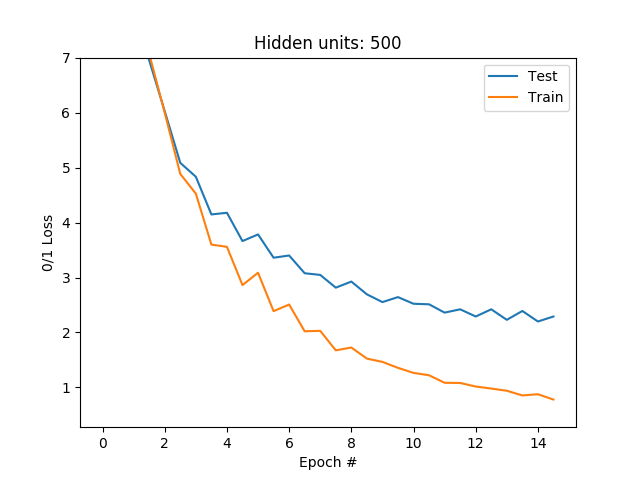
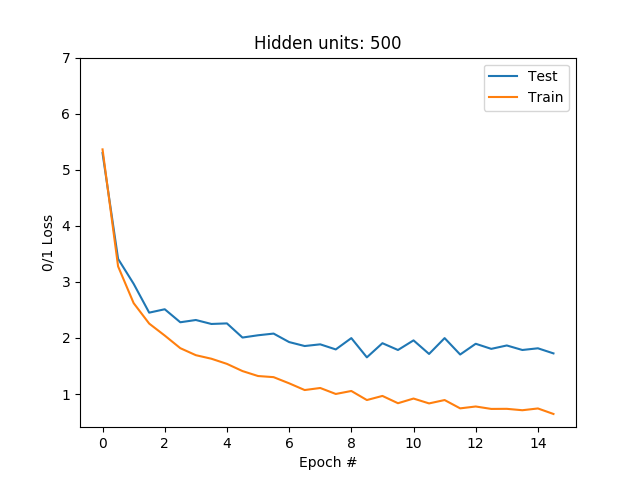
Add ReLU implementation; rename main file in sigmoid

diff --git a/src/relu_backprop.py b/src/relu_backprop.py
@@ -1,0 +1,257 @@
+import numpy as np
+import scipy.special as special
+import matplotlib.pyplot as plt
+from sklearn.preprocessing import scale
+
+from parameters import HyperParameters
+
+
+def feed_forward(training_example,
+                 input_layer_weights,
+                 hidden_layer_weights):
+    """
+    Feed forward part of the the BackPropagation algorithmn
+    :rtype: object
+    :param training_example: 51 x 1 ndarray
+    :param input_layer_weights: 51 x num_hidden_units ndarray
+    :param hidden_layer_weights: num_hidden_units x 10 ndarray
+    """
+    # calculate hidden layer values
+    hidden_layer_values = np.maximum(np.dot(training_example, input_layer_weights), 0.0)
+    # calculate output layer values
+    output_layer_values = np.maximum(np.dot(hidden_layer_values, hidden_layer_weights), 0.0)
+    if np.any(np.isnan(hidden_layer_values)) or np.any(np.isnan(output_layer_values)):
+        print('SSTOP!')
+    return hidden_layer_values, output_layer_values
+
+
+def back_propagate_errors(training_example_label,
+                          hidden_layer_weights,
+                          hidden_unit_values,
+                          output_unit_values):
+    """
+
+    :param training_example_label: 10 x 1 ndarray for actual output layer or label for current training example
+    :param hidden_layer_weights: num_hidden_units x 10 ndarray representing weights between output units and hidden units
+    :param hidden_unit_values: num_hidden_unit x 1 ndarray representing the hidden unit values obtained after feed forward
+    :param output_unit_values: 10 x 1 ndarray representing the output unit values obtained after feed forward
+    """
+    assert training_example_label.shape[0] == output_unit_values.shape[0]
+
+    output_unit_error_terms = np.zeros(output_unit_values.shape)
+    output_unit_error_terms[output_unit_values > 0.0] = 1.0
+    output_unit_error_terms = (training_example_label - output_unit_values) * output_unit_error_terms
+    # output_unit_error_terms = output_unit_values * (np.full(output_unit_values.shape, 1.0) - output_unit_values) * (
+    #     training_example_label - output_unit_values)
+
+    hidden_unit_error_terms = np.zeros(hidden_unit_values.shape)
+    hidden_unit_error_terms[hidden_unit_values > 0.0] = 1.0
+    hidden_unit_error_terms = hidden_unit_error_terms * np.dot(hidden_layer_weights, output_unit_error_terms)
+    # hidden_unit_error_terms = np.dot(hidden_layer_weights, output_unit_error_terms) * hidden_unit_values * (
+    #     np.full(hidden_unit_values.shape, 1.0) - hidden_unit_values)
+
+    return hidden_unit_error_terms, output_unit_error_terms
+
+
+def get_weight_delta(hidden_unit_error_terms,
+                     output_unit_error_terms,
+                     parameter_factory,
+                     training_example,
+                     hidden_layer_values,
+                     previous_input_weights_delta,
+                     previous_hidden_unit_weights_delta):
+    """
+
+    :param previous_hidden_unit_weights_delta:
+    :param previous_input_weights_delta:
+    :param hidden_layer_values:  num_hidden_units x 1 ndarray representing the values calculated at the hidden layer
+    :param training_example: 51 x 1 ndarray representing the input layer values of the training example
+    :param hidden_unit_error_terms: num_hidden_units x 1 ndarray representing error terms of the hidden layer // LIST
+    :param output_unit_error_terms: 10 x 1 ndarray representing error terms of the output layer
+    :param parameter_factory:
+    """
+    input_unit_weights_delta = (np.outer(training_example,
+                                         hidden_unit_error_terms) * parameter_factory.learning_rate()) + (
+                                   parameter_factory.momentum() * previous_input_weights_delta)
+    hidden_unit_weights_delta = (np.outer(hidden_layer_values,
+                                          output_unit_error_terms) * parameter_factory.learning_rate()) + (
+                                    parameter_factory.momentum() * previous_hidden_unit_weights_delta)
+    return input_unit_weights_delta, hidden_unit_weights_delta
+
+
+def do_train(training_data_features,
+             training_data_labels,
+             testing_data_features,
+             testing_data_labels,
+             parameters=HyperParameters(num_hidden_units=100,
+                                        num_epochs=15,
+                                        num_input_units=51,
+                                        num_output_units=10,
+                                        mini_batch_size=1,
+                                        learning_rate=0.1,
+                                        momentum=0.1)):
+    """
+
+    :param training_data_features: 60000 x 50 matrix
+    :param training_data_labels:  60000 x 1 matrix
+    """
+    assert training_data_features.shape[0] == training_data_labels.shape[0]
+
+    # Replace nan values in the training data
+    replace_nan_values(training_data_features, training_data_labels)
+
+    # Initialize weights
+    input_unit_weights, hidden_unit_weights = parameters.initialize_weights()
+
+    training_data_features = training_data_features / 1000.0
+    testing_data_features = testing_data_features / 1000.0
+
+    # Add bias units to the features.
+    training_data_features = np.insert(training_data_features, 0,
+                                       np.full((training_data_features.shape[0],), 1.0), axis=1)
+    testing_data_features = np.insert(testing_data_features, 0,
+                                      np.full((testing_data_features.shape[0],), 1.0), axis=1)
+
+    input_unit_weights_delta = np.zeros(input_unit_weights.shape)
+    hidden_unit_weights_delta = np.zeros(hidden_unit_weights.shape)
+
+    previous_input_unit_weights_delta = np.zeros(input_unit_weights.shape)
+    previous_hidden_unit_weights_delta = np.zeros(hidden_unit_weights.shape)
+
+    # Values for plotting
+    epoch_nums = np.arange(0.0, parameters.num_epochs(), 0.5)
+    epoch_mse_vals_test = []
+    epoch_mse_vals_train = []
+    zero_one_errors_test = []
+    zero_one_errors_train = []
+
+    for n in range(parameters.num_epochs()):
+        for idx, training_example in enumerate(training_data_features):
+            if idx % parameters.mini_batch_size() == 0:
+                input_unit_weights = input_unit_weights + input_unit_weights_delta
+                hidden_unit_weights = hidden_unit_weights + hidden_unit_weights_delta
+                input_unit_weights_delta = np.zeros(input_unit_weights.shape)
+                hidden_unit_weights_delta = np.zeros(hidden_unit_weights.shape)
+
+            hidden_layer_values, output_layer_values = feed_forward(training_example,
+                                                                    input_unit_weights,
+                                                                    hidden_unit_weights)
+            hidden_unit_error_terms, output_unit_error_terms = back_propagate_errors(training_data_labels[idx],
+                                                                                     hidden_unit_weights,
+                                                                                     hidden_layer_values,
+                                                                                     output_layer_values)
+            curr_input_unit_weights_delta, curr_hidden_unit_weights_delta = \
+                get_weight_delta(hidden_unit_error_terms,
+                                 output_unit_error_terms,
+                                 parameters,
+                                 training_example,
+                                 hidden_layer_values,
+                                 previous_input_unit_weights_delta,
+                                 previous_hidden_unit_weights_delta)
+            input_unit_weights_delta += curr_input_unit_weights_delta
+            hidden_unit_weights_delta += curr_hidden_unit_weights_delta
+            previous_input_unit_weights_delta = curr_input_unit_weights_delta
+            previous_hidden_unit_weights_delta = curr_hidden_unit_weights_delta
+
+            if (idx + 1) % 30000 == 0:
+                total_square_error_test, total_square_error_train, test_correct_predictions, test_incorrect_predictions, train_error_rate = \
+                    get_squared_error(
+                        testing_data_features,
+                        testing_data_labels,
+                        input_unit_weights,
+                        hidden_unit_weights,
+                        training_data_features,
+                        training_data_labels)
+                print(
+                    'n {} : Test SE: {} Train SE: {} Test Error Rate: {}, Train Error Rate: {}'.format(
+                        n, total_square_error_test,
+                        total_square_error_train,
+                        100.0*(test_incorrect_predictions / (test_correct_predictions + test_incorrect_predictions)),
+                        100.0*train_error_rate))
+                epoch_mse_vals_test.append(total_square_error_test)
+                epoch_mse_vals_train.append(total_square_error_train)
+                zero_one_errors_test.append(
+                    (test_incorrect_predictions / (test_correct_predictions + test_incorrect_predictions)) * 100.9)
+                zero_one_errors_train.append(100.0 * train_error_rate)
+    print('Done!')
+    plot_error(parameters, epoch_nums,
+               epoch_vals_test=epoch_mse_vals_test,
+               epoch_vals_train=epoch_mse_vals_train,
+               zero_one_errors_test=zero_one_errors_test,
+               zero_one_errors_train=zero_one_errors_train)
+
+
+def get_squared_error(testing_data_features,
+                      testing_data_labels,
+                      input_unit_weights,
+                      hidden_unit_weights,
+                      training_data_features,
+                      training_data_labels):
+    total_square_error_test = 0.0
+    total_square_error_train = 0.0
+    test_correct_predictions = 0.0
+    test_incorrect_predictions = 0.0
+
+    train_correct_predictions = 0.0
+    train_incorrect_predictions = 0.0
+    # Test data
+    for idx, test_example in enumerate(testing_data_features):
+        predicted_values = feed_forward(test_example, input_unit_weights, hidden_unit_weights)[1]
+        actual_values = testing_data_labels[idx]
+        total_square_error_test += np.sum(np.square(predicted_values - actual_values))
+
+        if np.argmax(testing_data_labels[idx]) == np.argmax(predicted_values):
+            test_correct_predictions += 1.0
+        else:
+            test_incorrect_predictions += 1.0
+    if total_square_error_test == 0.0:
+        raise ValueError('0 error ?!')
+
+    # Training data
+    for idx, train_example in enumerate(training_data_features):
+        predicted_values = feed_forward(train_example, input_unit_weights, hidden_unit_weights)[1]
+        actual_values = training_data_labels[idx]
+        total_square_error_train += np.sum(np.square(predicted_values - actual_values))
+
+        if np.argmax(training_data_labels[idx]) == np.argmax(predicted_values):
+            train_correct_predictions += 1.0
+        else:
+            train_incorrect_predictions += 1.0
+
+    return total_square_error_test / (2.0 * testing_data_labels.shape[0]), total_square_error_train / (
+        2.0 * training_data_labels.shape[
+            0]), test_correct_predictions, test_incorrect_predictions, train_incorrect_predictions / (
+               train_correct_predictions + train_incorrect_predictions)
+
+
+def replace_nan_values(training_data, training_data_labels):
+    """
+    Replaces 'nan' values in the training data with 0.0, as these cause problems down the line when using these
+    values
+    :param training_data:
+    :param training_data_labels:
+    """
+    if np.any(np.isnan(training_data)):
+        np.nan_to_num(training_data, copy=False)
+    if np.any(np.isnan(training_data_labels)):
+        np.nan_to_num(training_data_labels, copy=False)
+
+
+def plot_error(parameters, epoch_nums, epoch_vals_test, epoch_vals_train, zero_one_errors_test, zero_one_errors_train):
+    # Plot MSE
+    fig, ax = plt.subplots()
+    ax.plot(epoch_nums, epoch_vals_test, label='Test')
+    ax.plot(epoch_nums, epoch_vals_train, label='Train')
+    ax.set(xlabel='Epoch #', ylabel='Squared Error', title='Hidden units: {}'.format(parameters.num_hidden_unit()))
+    ax.legend()
+    fig.savefig('../data/{}_mse_plot_{}_hu.png'.format(parameters.idx(), parameters.num_hidden_unit()))
+
+    # Plot 0-1 loss
+    fig2, ax2 = plt.subplots()
+    ax2.plot(epoch_nums, zero_one_errors_test, label='Test')
+    ax2.plot(epoch_nums, zero_one_errors_train, label='Train')
+    ax2.set(xlabel='Epoch #', ylabel='0/1 Loss', title='Hidden units: {}'.format(parameters.num_hidden_unit()))
+    ax2.legend()
+    if min(zero_one_errors_test) < 7:
+        ax2.set_ybound(upper=7)
+    fig2.savefig('../data/{}_01_plot_{}_hu.png'.format(parameters.idx(), parameters.num_hidden_unit()))

diff --git a/src/relu_main.py b/src/relu_main.py
@@ -1,0 +1,27 @@
+import relu_backprop
+import data_loader
+from parameters import HyperParameters
+
+if __name__ == '__main__':
+    # Load training data
+    input_x_features = data_loader.load_training_data_from_binary()
+    input_labels = data_loader.load_training_labels_from_binary()
+
+    # Load testing data
+    testing_features = data_loader.load_testing_data_from_binary()
+    testing_labels = data_loader.load_testing_labels_from_binary()
+
+    # Train the neural net
+    for par in range(1):
+        # print('Training HP {} {}'.format(par.num_hidden_unit(), par.idx()))
+        relu_backprop.do_train(input_x_features,
+                          data_loader.transform_output_label_into_vector(input_labels),
+                          testing_features,
+                          data_loader.transform_output_label_into_vector(testing_labels),
+                          parameters=HyperParameters(num_hidden_units=500,
+                                                     idx=4,
+                                                     low=-0.05,
+                                                     high=0.05,
+                                                     num_input_units=51,
+                                                     num_output_units=10,
+                                                     momentum=0.0))
